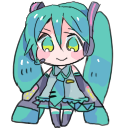
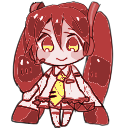
Updated miko images, and added gpt3

diff --git a/gpt3.py b/gpt3.py
@@ -1,0 +1,71 @@
+from selenium import webdriver
+from selenium.webdriver.common.keys import Keys
+from selenium.webdriver.common.by import By
+from selenium.webdriver.firefox.options import Options
+from datetime import datetime
+from time import sleep, time
+import json
+
+# -------------------- Settings --------------------
+
+URL = "https://platform.openai.com/playground/p/default-tweet-classifier"
[1 lines of base64/hex data omitted]
+
+# -------------------- Options --------------------
+
+HEADLESS = True
+REQUEST_REFRESH_LIMIT = 3
+
+# -------------------------------------------------
+
+key = list(LOCAL_STORAGE_TOKEN.keys())[0]
+script = f"window.localStorage.setItem('{key}', '{LOCAL_STORAGE_TOKEN[key]}');"
+expireDate = json.loads(LOCAL_STORAGE_TOKEN[key])["expiresAt"]
+secsToExpire = expireDate - time()
+
+print(f"Token expires at {datetime.fromtimestamp(expireDate)}")
+if secsToExpire < 0:
+    print("Token expired")
+    exit(1)
+else:
+    print(f"Token expires in {expireDate - time():.0f} seconds")
+
+options = Options()
+options.add_argument("--headless" if HEADLESS else "--no-headless")
+
+driver = webdriver.Firefox(options=options)
+driver.implicitly_wait(3)
+driver.get(URL)
+driver.execute_script(script)
+driver.refresh()
+
+def predict_gpt3(input):
+    textbox = driver.find_element(By.CSS_SELECTOR, 'div[role="textbox"]')
+    try:
+        textbox.click()
+    except:
+        textbox.click()
+    textbox.send_keys(Keys.CONTROL + "a")
+    textbox.send_keys(input)
+
+    # Submit
+    oldInput = textbox.text
+    textbox.send_keys(Keys.CONTROL + Keys.ENTER)
+
+    # Wait prediction
+    refreshCount = 0
+    while refreshCount < REQUEST_REFRESH_LIMIT:
+        if oldInput != textbox.text:
+            refreshCount = 0
+            oldInput = textbox.text
+        refreshCount += 1
+        sleep(1)
+
+    predictions = driver.find_elements(By.CSS_SELECTOR, 'span[style="background-color: var(--green-100);"]')
+    for prediction in predictions:
+        print(prediction.text, end=" ")
+    print()
+
+if __name__ == "__main__":
+    predict_gpt3(input("Ask me something: "))
+    driver.close()

diff --git a/mascot.py b/mascot.py
@@ -126,7 +126,7 @@ class MikuWindow(QMainWindow):
         self.say(f"Today's news are {title}...{desc}")
 
     def speak(self, _):
-        if rng_range(0, 100) < 25:
+        if rng_range(0, 100) < 25 and len(self.noteapp.notes):
             _, tkText = rng_choice(self.noteapp.notes)
             text = "Remember " + self.noteapp.get_text(tkText)
         else:
